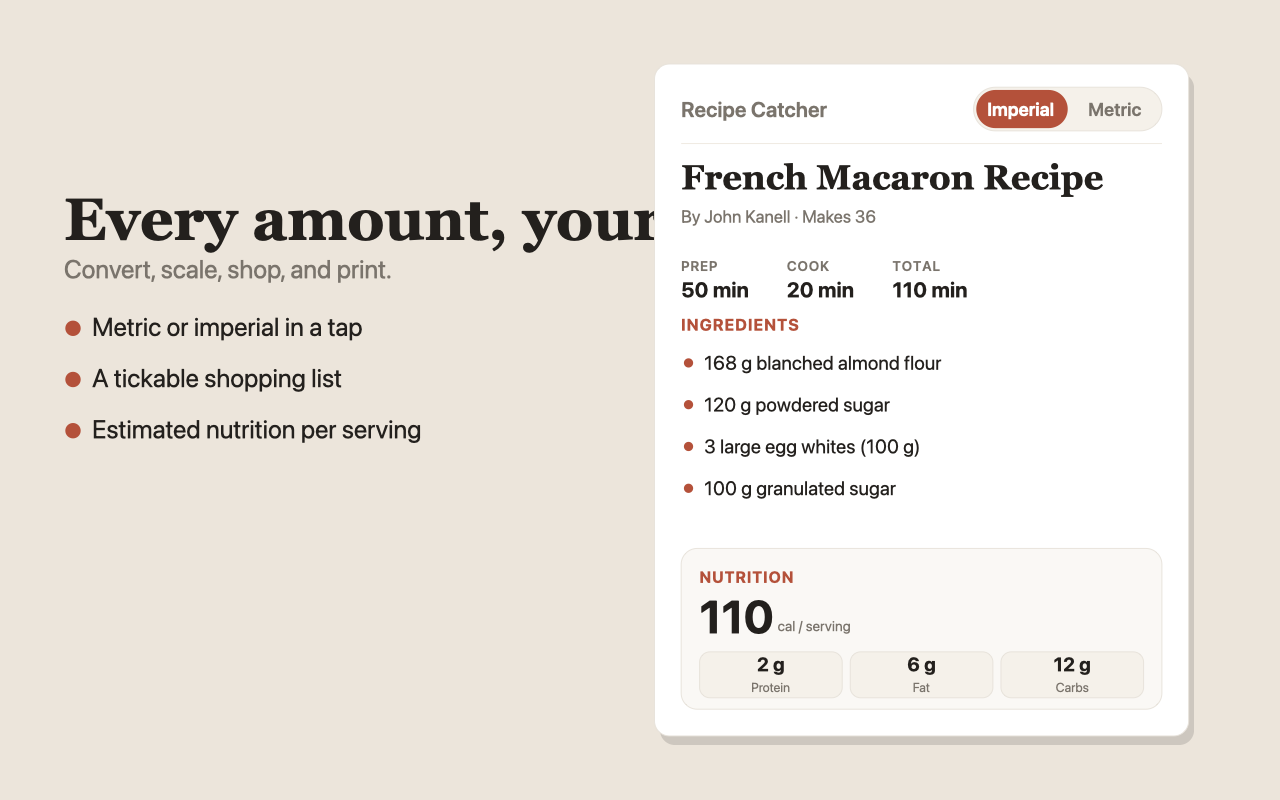
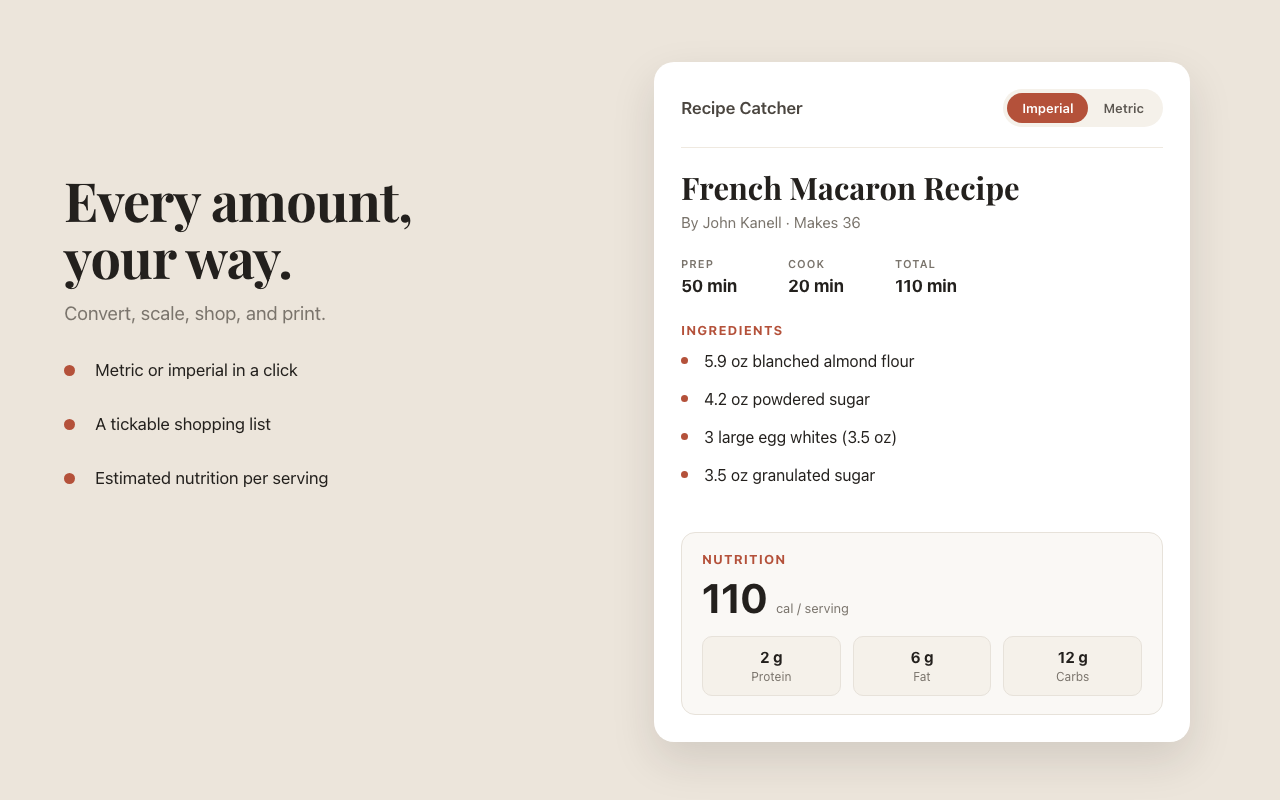
Rebuild store screenshot 03, and keep its source this time
The original screenshot-03 shipped with two defects that predate the
Chrome/Firefox work and would have gone to the App Store too:

- the headline overflowed and ran behind the recipe card, cut off mid-word
- the toggle showed Imperial selected while the amounts beside it were still
  metric (168 g, 120 g) — the panel contradicted itself

It came from an external design tool with no source in the repo, so neither
could be corrected; it could only be redrawn. This rebuilds it as HTML,
rendered headless at 1280x800 to a 24-bit PNG.

Colours are sampled pixel-for-pixel from screenshot-01 (#ece5db page, #b4513a
accent, #f5f1ea tiles) and the time columns match its 107px spacing, so the
three read as a set. The ingredient amounts are what extension/units.js
actually renders in imperial, so the panel is now truthful.

The source and its re-render command live in store/screenshots/src/, so the
next fix is an edit rather than a redraw.

diff --git a/store/screenshots/src/screenshot-03.html b/store/screenshots/src/screenshot-03.html
@@ -1,0 +1,130 @@
+<!DOCTYPE html>
+<!--
+  Source for store/screenshots/chrome/screenshot-03-1280x800.png.
+
+  The original screenshot-03 was produced in an external design tool with no
+  source in the repo, and shipped with its headline overflowing behind the card
+  and an Imperial/Metric toggle that disagreed with the amounts beside it —
+  neither of which could be corrected without redrawing it. Hence this file.
+
+  Colours are sampled from screenshot-01 so the three read as a set; the
+  ingredient amounts are what extension/units.js actually renders in imperial.
+
+  Re-render (writes a 1280x800 24-bit PNG, no alpha, exactly the Chrome Web
+  Store's requirement):
+
+    "/Applications/Google Chrome.app/Contents/MacOS/Google Chrome" \
+      --headless --disable-gpu --hide-scrollbars --virtual-time-budget=6000 \
+      --window-size=1280,800 \
+      --screenshot=store/screenshots/chrome/screenshot-03-1280x800.png \
+      "file://$PWD/store/screenshots/src/screenshot-03.html"
+-->
+<html lang="en">
+<head>
+<meta charset="utf-8" />
+<link rel="preconnect" href="https://fonts.googleapis.com">
+<link rel="preconnect" href="https://fonts.gstatic.com" crossorigin>
+<link href="https://fonts.googleapis.com/css2?family=Playfair+Display:wght@700&display=swap" rel="stylesheet">
+<style>
+  /* Palette sampled from the existing screenshots / extension/reader.css */
+  :root{
+    --bg:#ece5db; --card:#ffffff; --fg:#23201d; --muted:#7a746c;
+    --accent:#b4513a; --panel:#faf8f5; --border:#e7e2da; --rule:#efe9e0;
+  }
+  *{box-sizing:border-box;margin:0;padding:0;}
+  html,body{width:1280px;height:800px;overflow:hidden;}
+  body{background:var(--bg);color:var(--fg);
+       font-family:-apple-system,BlinkMacSystemFont,"SF Pro Text",system-ui,sans-serif;
+       -webkit-font-smoothing:antialiased;}
+  .serif{font-family:"Playfair Display",Georgia,serif;font-weight:700;}
+
+  /* ---- left marketing column ---- */
+  .left{position:absolute;left:64px;top:172px;width:548px;}
+  .left h1{font-size:54px;line-height:1.06;letter-spacing:-.015em;}
+  .sub{margin-top:16px;font-size:19px;color:var(--muted);}
+  ul{margin-top:36px;list-style:none;}
+  li{display:flex;align-items:center;gap:20px;font-size:17px;margin-bottom:34px;}
+  li:last-child{margin-bottom:0;}
+  .dot{width:11px;height:11px;border-radius:50%;background:var(--accent);flex:0 0 11px;}
+
+  /* ---- reader card ---- */
+  .card{position:absolute;left:654px;top:62px;width:536px;height:680px;
+        background:var(--card);border-radius:20px;
+        box-shadow:0 18px 44px rgba(35,32,29,.13);padding:27px;}
+  .chead{display:flex;align-items:center;justify-content:space-between;
+         padding-bottom:20px;border-bottom:1px solid var(--rule);}
+  .brand{font-size:17px;font-weight:600;color:#4a453f;}
+  .toggle{display:flex;background:#f5f1ea;border-radius:999px;padding:4px;}
+  .toggle span{font-size:13px;font-weight:600;padding:7px 15px;border-radius:999px;color:#5c5751;}
+  .toggle .on{background:var(--accent);color:#fff;}
+
+  .rtitle{margin-top:22px;font-size:31px;line-height:1.15;}
+  .meta{margin-top:7px;font-size:15px;color:var(--muted);}
+  .times{display:flex;margin-top:26px;}
+  .times>div{width:107px;}
+  .times .lbl{font-size:11px;font-weight:600;letter-spacing:.09em;color:var(--muted);}
+  .times .val{margin-top:6px;font-size:17px;font-weight:700;}
+  .sechead{margin-top:26px;font-size:13px;font-weight:700;letter-spacing:.09em;color:var(--accent);}
+  .ing{margin-top:14px;list-style:none;}
+  .ing li{font-size:16px;margin-bottom:20px;gap:16px;}
+  .ing .dot{width:7px;height:7px;flex:0 0 7px;}
+
+  .nutri{position:absolute;left:27px;right:27px;bottom:27px;
+         background:var(--panel);border:1px solid var(--border);border-radius:14px;padding:18px 20px;}
+  .nutri .h{font-size:13px;font-weight:700;letter-spacing:.09em;color:var(--accent);}
+  .cal{display:flex;align-items:baseline;gap:9px;margin-top:6px;}
+  .cal b{font-size:41px;font-weight:700;letter-spacing:-.02em;}
+  .cal span{font-size:13px;color:var(--muted);}
+  .tiles{display:flex;gap:12px;margin-top:14px;}
+  .tile{flex:1;background:#f5f1ea;border:1px solid var(--border);border-radius:10px;
+        padding:11px 0;text-align:center;}
+  .tile b{display:block;font-size:15px;font-weight:700;}
+  .tile span{font-size:12px;color:var(--muted);}
+</style>
+</head>
+<body>
+  <div class="left">
+    <h1 class="serif">Every amount,<br>your way.</h1>
+    <p class="sub">Convert, scale, shop, and print.</p>
+    <ul>
+      <li><i class="dot"></i>Metric or imperial in a click</li>
+      <li><i class="dot"></i>A tickable shopping list</li>
+      <li><i class="dot"></i>Estimated nutrition per serving</li>
+    </ul>
+  </div>
+
+  <div class="card">
+    <div class="chead">
+      <div class="brand">Recipe Catcher</div>
+      <div class="toggle"><span class="on">Imperial</span><span>Metric</span></div>
+    </div>
+
+    <div class="rtitle serif">French Macaron Recipe</div>
+    <div class="meta">By John Kanell · Makes 36</div>
+
+    <div class="times">
+      <div><div class="lbl">PREP</div><div class="val">50 min</div></div>
+      <div><div class="lbl">COOK</div><div class="val">20 min</div></div>
+      <div><div class="lbl">TOTAL</div><div class="val">110 min</div></div>
+    </div>
+
+    <div class="sechead">INGREDIENTS</div>
+    <ul class="ing">
+      <li><i class="dot"></i>5.9 oz blanched almond flour</li>
+      <li><i class="dot"></i>4.2 oz powdered sugar</li>
+      <li><i class="dot"></i>3 large egg whites (3.5 oz)</li>
+      <li><i class="dot"></i>3.5 oz granulated sugar</li>
+    </ul>
+
+    <div class="nutri">
+      <div class="h">NUTRITION</div>
+      <div class="cal"><b>110</b><span>cal / serving</span></div>
+      <div class="tiles">
+        <div class="tile"><b>2 g</b><span>Protein</span></div>
+        <div class="tile"><b>6 g</b><span>Fat</span></div>
+        <div class="tile"><b>12 g</b><span>Carbs</span></div>
+      </div>
+    </div>
+  </div>
+</body>
+</html>

diff --git a/store/webstore-listing.md b/store/webstore-listing.md
@@ -60,9 +60,12 @@ Both are live, served from `docs/` via GitHub Pages. Source repo: https://github
 
 ### Screenshots
 Use `store/screenshots/chrome/*.png` — **1280×800, 24-bit PNG, no alpha**, which is what
-the Chrome Web Store requires (it rejects PNGs with an alpha channel). These are the
+the Chrome Web Store requires (it rejects PNGs with an alpha channel). 01 and 02 are the
 `screenshots/macos/` designs with the redundant, fully-opaque alpha channel stripped, so
-the pixels are unchanged. AMO accepts the same files. Up to 5; at least 1 required.
+their pixels are unchanged. 03 was rebuilt (the original's headline overflowed behind the
+card and its unit toggle contradicted the amounts shown); its source is
+`store/screenshots/src/screenshot-03.html`, with the re-render command in that file's
+header comment. AMO accepts the same files. Up to 5; at least 1 required.
 
 ### Pricing
 List **free** on both. The Chrome Web Store no longer supports paid extensions or its
